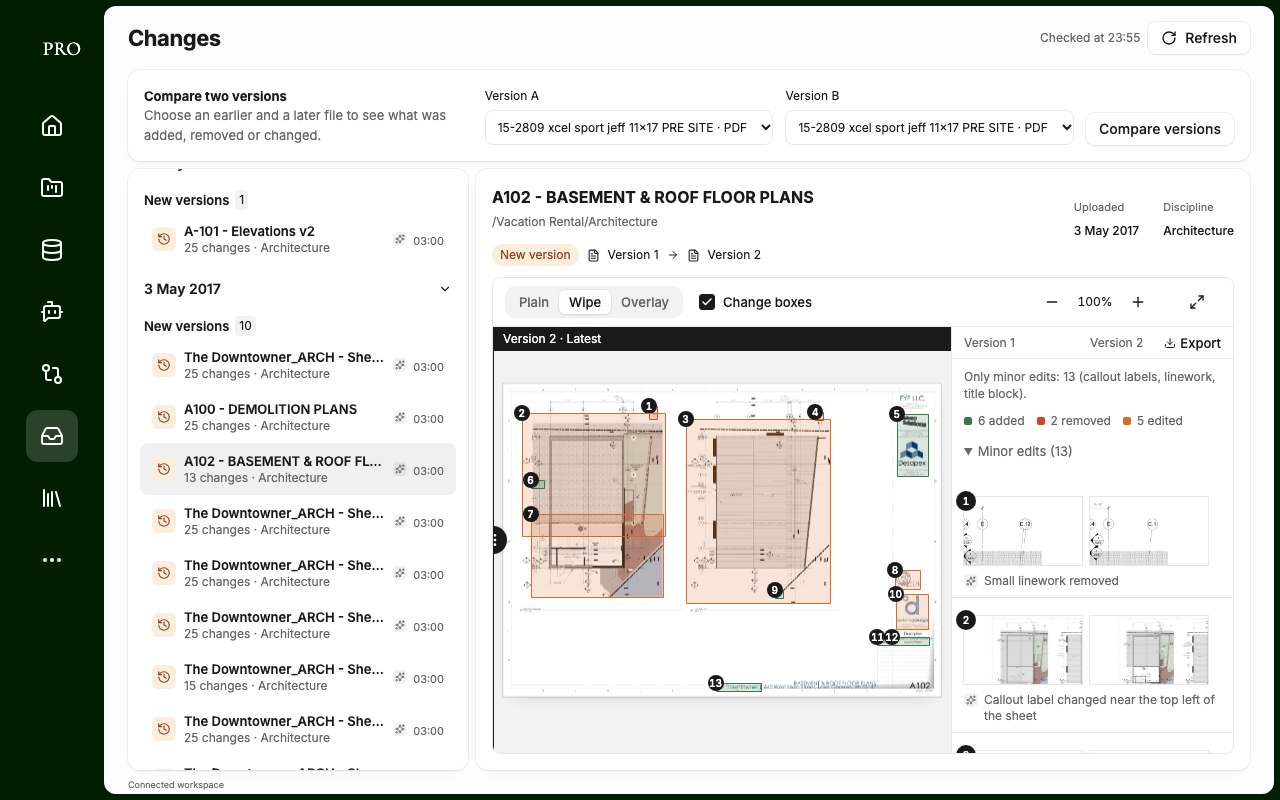
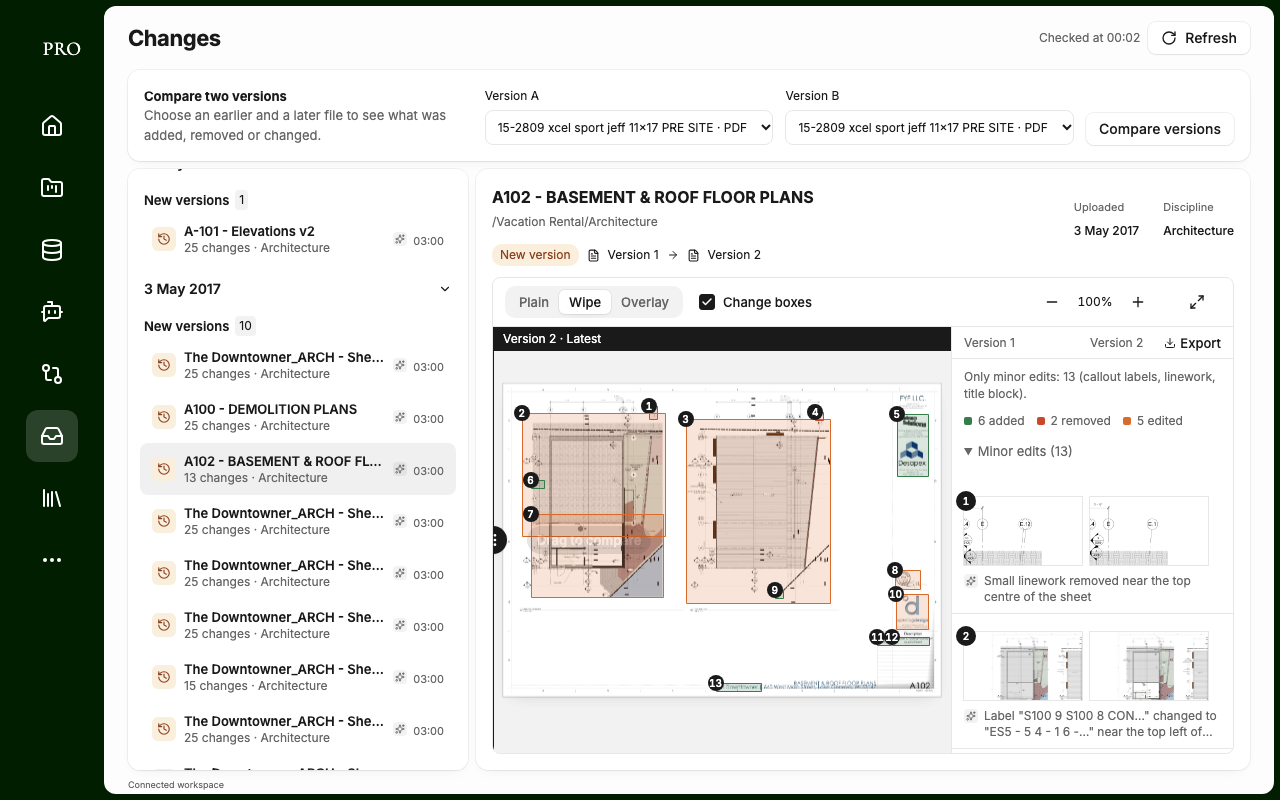
M-CHANGES: stronger overlay tint, plain-sentence minor edit text (labels before/after, shape, place)
Claude-Session: https://claude.ai/code/session_01GYqh9VWiXR7AfuxwTwDLZf

diff --git a/web/src/lib/change-copy.ts b/web/src/lib/change-copy.ts
@@ -20,6 +20,17 @@ export function whereOnSheet(box: [number, number, number, number] | null | unde
   return row === 'middle' && col === 'centre' ? 'near the middle of the sheet' : `near the ${row === 'middle' ? '' : `${row} `}${col} of the sheet`.replace('  ', ' ')
 }
 
+/** "Short vertical line", "Horizontal line", "Small mark": what a small graphic region is, from its shape alone. */
+export function shapeWord(box: number[] | null | undefined, size: { w: number; h: number }) {
+  if (!box || !size.w || !size.h) return 'Small linework'
+  const w = Math.abs(box[2] - box[0]), h = Math.abs(box[3] - box[1])
+  const long = Math.max(w, h) / Math.max(size.w, size.h)
+  const length = long < 0.03 ? 'Short ' : long > 0.12 ? 'Long ' : ''
+  if (w > 3.5 * h) return `${length}horizontal line`.replace(/^./, (c) => c.toUpperCase())
+  if (h > 3.5 * w) return `${length}vertical line`.replace(/^./, (c) => c.toUpperCase())
+  return long < 0.03 ? 'Small mark' : 'Small linework'
+}
+
 const area = (box: number[] | null | undefined, size: { w: number; h: number }) => box ? (box[2] - box[0]) * (box[3] - box[1]) / (size.w * size.h) : 0
 
 /** Turn one engine sentence into plain words that say what changed and where. */
@@ -33,21 +44,21 @@ export function readChange(change: Item, size: { w: number; h: number }): Change
   // Title block (logos, stamps, revision list) is housekeeping, not design: one plain minor line.
   if (where === 'in the title block' && !/^Text changed from/.test(s)) return { change, kind: 'graphic-edited', small: true, text: 'Title block updated (logo, stamp or revision list)' }
   let m = s.match(/^Text added: "([\s\S]*)"\.?$/)
-  if (m) return wordy(m[1]) ? { change, kind: 'note-added', small: false, text: `Note added${at}: "${short(m[1])}"` } : { change, kind: 'note-added', small: true, text: `Callout label added${at}` }
+  if (m) return wordy(m[1]) ? { change, kind: 'note-added', small: false, text: `Note added${at}: "${short(m[1])}"` } : { change, kind: 'note-added', small: true, text: `Label "${short(m[1], 18)}" added${at}` }
   m = s.match(/^Text removed: "([\s\S]*)"\.?$/)
-  if (m) return wordy(m[1]) ? { change, kind: 'note-removed', small: false, text: `Note removed${at}: "${short(m[1])}"` } : { change, kind: 'note-removed', small: true, text: `Callout label removed${at}` }
+  if (m) return wordy(m[1]) ? { change, kind: 'note-removed', small: false, text: `Note removed${at}: "${short(m[1])}"` } : { change, kind: 'note-removed', small: true, text: `Label "${short(m[1], 18)}" removed${at}` }
   m = s.match(/^Text changed from "([\s\S]*?)(?:…)?" to "([\s\S]*?)(?:…)?"\.?$/)
   if (m) {
     const [from, to] = [m[1].trim(), m[2].trim()]
     if (ref.test(from) && ref.test(to)) return { change, kind: 'reference', small: false, text: `Sheet reference changed: ${asRef(from)} → ${asRef(to)}` }
-    if (!wordy(from) && !wordy(to)) return { change, kind: 'note-edited', small: true, text: `Callout label changed${at}` }
+    if (!wordy(from) && !wordy(to)) return { change, kind: 'note-edited', small: true, text: from && to ? `Label "${short(from, 18)}" changed to "${short(to, 18)}"${at}` : `Label changed${at}` }
     if (from.length <= 24 && to.length <= 24 && !s.includes('…')) return { change, kind: 'note-edited', small: false, text: `Note edited${at}: "${from}" → "${to}"` }
     return { change, kind: 'rewritten', small: false, text: `Text rewritten${at}` }
   }
   const tiny = area(bbox, size) < 0.015
-  if (/^Content added/.test(s)) return { change, kind: 'graphic-added', small: tiny, text: tiny ? 'Small linework added' : `New drawing content added${at}` }
-  if (/^Content removed/.test(s)) return { change, kind: 'graphic-removed', small: tiny, text: tiny ? 'Small linework removed' : `Drawing content removed${at}` }
-  if (/^Changed region/.test(s)) return { change, kind: 'graphic-edited', small: tiny, text: tiny ? 'Small linework edited' : `Drawing changed${at}` }
+  if (/^Content added/.test(s)) return { change, kind: 'graphic-added', small: tiny, text: tiny ? `${shapeWord(bbox, size)} added${at}` : `New drawing content added${at}` }
+  if (/^Content removed/.test(s)) return { change, kind: 'graphic-removed', small: tiny, text: tiny ? `${shapeWord(bbox, size)} removed${at}` : `Drawing content removed${at}` }
+  if (/^Changed region/.test(s)) return { change, kind: 'graphic-edited', small: tiny, text: tiny ? `${shapeWord(bbox, size)} edited${at}` : `Drawing changed${at}` }
   return { change, kind: 'graphic-edited', small: false, text: s }
 }
 

diff --git a/web/src/components/sheet-compare.tsx b/web/src/components/sheet-compare.tsx
@@ -2,7 +2,7 @@ import { useCallback, useEffect, useId, useLayoutEffect, useMemo, useRef, useSta
 import { Check, Download, GripVertical, Maximize2, Minus, Plus, Sparkles } from 'lucide-react'
 import { Button } from './ui'
 import {
-  FIT_VIEW, OPEN_SEAM_FROM, OPEN_SEAM_TO, boxRect, clampView, easeInOut, fitSheet, lerpView, nudgeSeam, panView, parseHex, regionView,
+  FIT_VIEW, contrastMatrix, OPEN_SEAM_FROM, OPEN_SEAM_TO, boxRect, clampView, easeInOut, fitSheet, lerpView, nudgeSeam, panView, parseHex, regionView,
   seamFromPointer, shortVersion, sheetTransform, stepZoom, thumbLayout, tintMatrix, usableBox, versionDate, zoomAt,
   THUMB_H, THUMB_W, type Bbox, type Size, type View,
 } from '../lib/sheet-compare'
@@ -89,7 +89,7 @@ export function SheetCompare({ prev, curr, size, changes, initialMode = 'Wipe', 
   const ready = prevState !== 'loading' && currState !== 'loading'
   const tint = useMemo(() => {
     const read = (name: string, fallback: [number, number, number]) => typeof document === 'undefined' ? fallback : parseHex(getComputedStyle(document.documentElement).getPropertyValue(name), fallback)
-    return { prev: tintMatrix(read('--change-removed', [0.792, 0.282, 0.165])), curr: tintMatrix(read('--change-added', [0.212, 0.486, 0.282])) }
+    return { contrast: contrastMatrix(), prev: tintMatrix(read('--change-removed', [0.792, 0.282, 0.165])), curr: tintMatrix(read('--change-added', [0.212, 0.486, 0.282])) }
   }, [])
 
   // Measure the canvas.
@@ -272,8 +272,8 @@ export function SheetCompare({ prev, curr, size, changes, initialMode = 'Wipe', 
       <div ref={canvas} className={`comparison-canvas sc-canvas${view.s > 1.001 ? ' zoomed' : ''}`} data-mode={mode} data-moving={moving || undefined} data-panning={panning || undefined} data-focused={focused || undefined}
         style={{ '--seam': `${seam}%` } as CSSProperties} onPointerDown={onCanvasDown} onPointerMove={onCanvasMove} onPointerUp={endPan} onPointerCancel={endPan} onDoubleClick={(event) => { if (!(event.target as HTMLElement).closest('.sc-box, .wipe-seam')) fitView() }}>
         <svg className="sc-defs" width="0" height="0" aria-hidden focusable="false"><defs>
-          <filter id={`${uid}-prev`} colorInterpolationFilters="sRGB"><feColorMatrix type="matrix" values={tint.prev} /></filter>
-          <filter id={`${uid}-curr`} colorInterpolationFilters="sRGB"><feColorMatrix type="matrix" values={tint.curr} /></filter>
+          <filter id={`${uid}-prev`} colorInterpolationFilters="sRGB"><feColorMatrix type="matrix" values={tint.contrast} /><feColorMatrix type="matrix" values={tint.prev} /></filter>
+          <filter id={`${uid}-curr`} colorInterpolationFilters="sRGB"><feColorMatrix type="matrix" values={tint.contrast} /><feColorMatrix type="matrix" values={tint.curr} /></filter>
         </defs></svg>
         {sizeOk && !bothFailed && <>
           <div className="sc-layer sc-prev" aria-hidden={mode === 'Plain'}>

diff --git a/web/src/lib/sheet-compare.test.ts b/web/src/lib/sheet-compare.test.ts
@@ -1,7 +1,7 @@
 import { expect, it } from 'vitest'
 import {
   boxRect, fitSheet, nudgeSeam, panView, regionView, screenToWorld, seamFromPointer, shortVersion, stepZoom, tintMatrix,
-  thumbLayout, versionDate, worldToScreen, zoomAt, usableBox, FIT_VIEW, parseHex,
+  thumbLayout, contrastMatrix, versionDate, worldToScreen, zoomAt, usableBox, FIT_VIEW, parseHex,
 } from './sheet-compare'
 
 const viewport = { w: 499, h: 525 }
@@ -136,11 +136,16 @@ it('short version labels drop the date, which moves to a tooltip', () => {
 })
 
 it('tint matrix keeps white paper white and turns black ink into the tint', () => {
+  // (also: mid grey linework becomes fully tinted, see below)
   const m = tintMatrix(parseHex('#ca482a', [1, 0, 0])).split(' ').map(Number)
   const apply = (r: number, g: number, b: number) => [0, 1, 2].map((row) => m[row * 5] * r + m[row * 5 + 1] * g + m[row * 5 + 2] * b + m[row * 5 + 4])
   expect(apply(1, 1, 1).every((v) => Math.abs(v - 1) < 1e-3)).toBe(true)
   const ink = apply(0, 0, 0)
   expect(ink[0]).toBeCloseTo(0xca / 255, 3)
   expect(ink[1]).toBeCloseTo(0x48 / 255, 3)
+  const c = contrastMatrix().split(' ').map(Number)
+  const lum = (v: number) => Math.min(1, Math.max(0, c[0] * v + c[1] * v + c[2] * v + c[4]))
+  expect(lum(1)).toBeCloseTo(1, 3)
+  expect(lum(0.4)).toBe(0)        // mid-dark linework becomes solid ink
   expect(parseHex('nope', [1, 2, 3])).toEqual([1, 2, 3])
 })

diff --git a/web/src/lib/sheet-compare.ts b/web/src/lib/sheet-compare.ts
@@ -157,7 +157,14 @@ export function parseHex(value: string, fallback: [number, number, number]): [nu
   return [parseInt(full.slice(0, 2), 16) / 255, parseInt(full.slice(2, 4), 16) / 255, parseInt(full.slice(4, 6), 16) / 255]
 }
 
-/** feColorMatrix values that turn dark ink into `tint` and keep paper white: out = tint + (1 - tint) * luminance. */
+/** Contrast boost on luminance: L' = GAIN * L - (GAIN - 1), clamped by the filter. Paper stays white, thin grey linework becomes solid. */
+export const TINT_GAIN = 2.2
+export function contrastMatrix(gain = TINT_GAIN): string {
+  const row = `${(gain * 0.2126).toFixed(4)} ${(gain * 0.7152).toFixed(4)} ${(gain * 0.0722).toFixed(4)} 0 ${(-(gain - 1)).toFixed(4)}`
+  return `${row} ${row} ${row} 0 0 0 1 0`
+}
+
+/** feColorMatrix values that turn dark ink into `tint` and keep paper white: out = tint + (1 - tint) * luminance. Apply after contrastMatrix. */
 export function tintMatrix(tint: [number, number, number]): string {
   const row = (t: number) => `${((1 - t) * 0.2126).toFixed(4)} ${((1 - t) * 0.7152).toFixed(4)} ${((1 - t) * 0.0722).toFixed(4)} 0 ${t.toFixed(4)}`
   return `${row(tint[0])} ${row(tint[1])} ${row(tint[2])} 0 0 0 1 0`

diff --git a/web/src/lib/change-copy.test.ts b/web/src/lib/change-copy.test.ts
@@ -7,7 +7,7 @@ const item = (sentence: string, bbox: [number, number, number, number] = [100, 1
 
 describe('plain-language change copy', () => {
   it('names notes and sheet references', () => {
-    expect(readChange(item('Text added: "53703".'), size).text).toBe('Callout label added near the top left of the sheet')
+    expect(readChange(item('Text added: "53703".'), size).text).toBe('Label "53703" added near the top left of the sheet')
     expect(readChange(item('Text added: "Existing roof joist".'), size).text).toBe('Note added near the top left of the sheet: "Existing roof joist"')
     expect(readChange(item('Text changed from "S100 8" to "S300 4 A100 4C".'), size).small).toBe(true)
     expect(readChange(item('Content added in this region (no text change).', [900, 100, 990, 300]), size).text).toBe('Title block updated (logo, stamp or revision list)')
